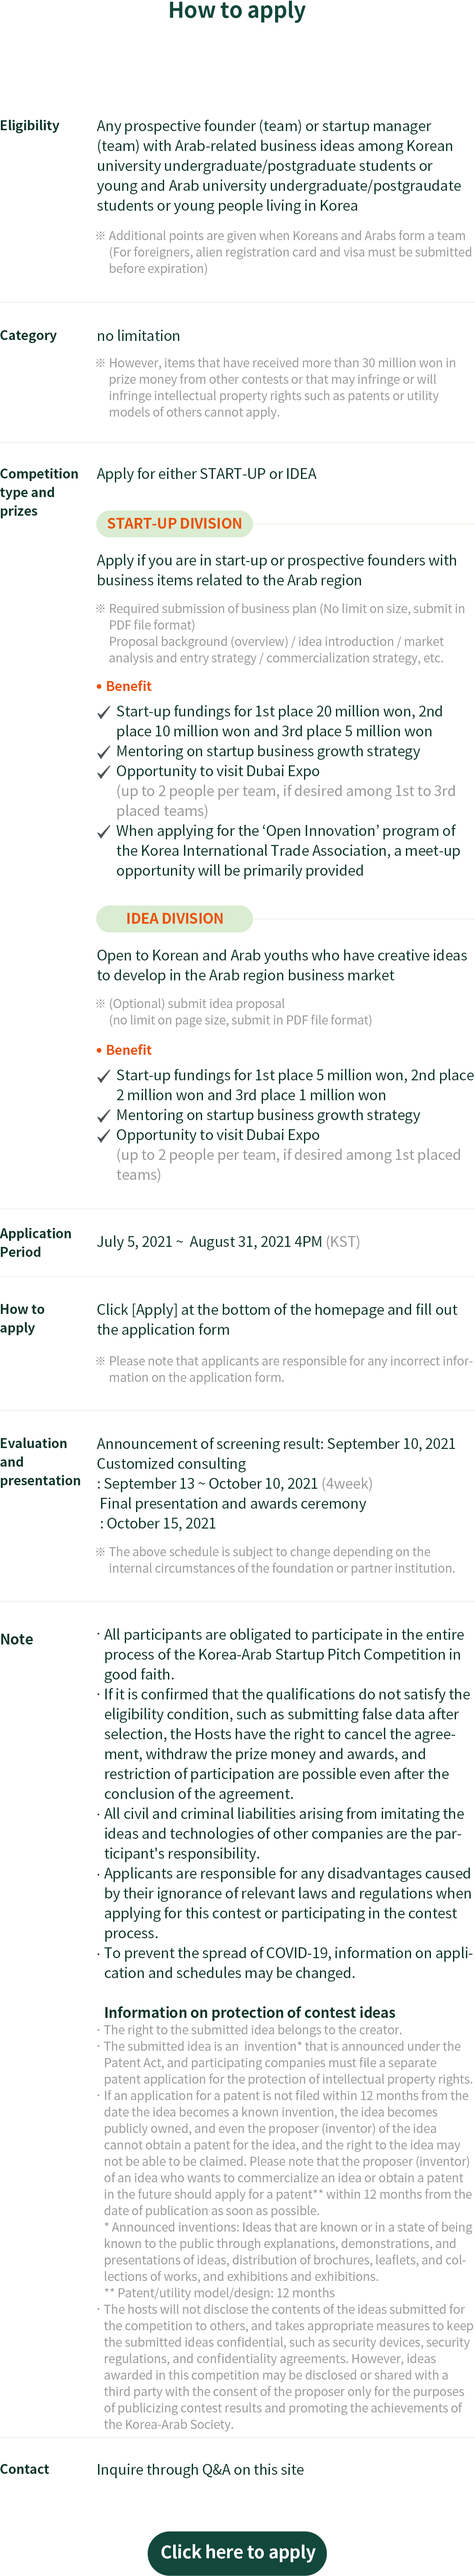
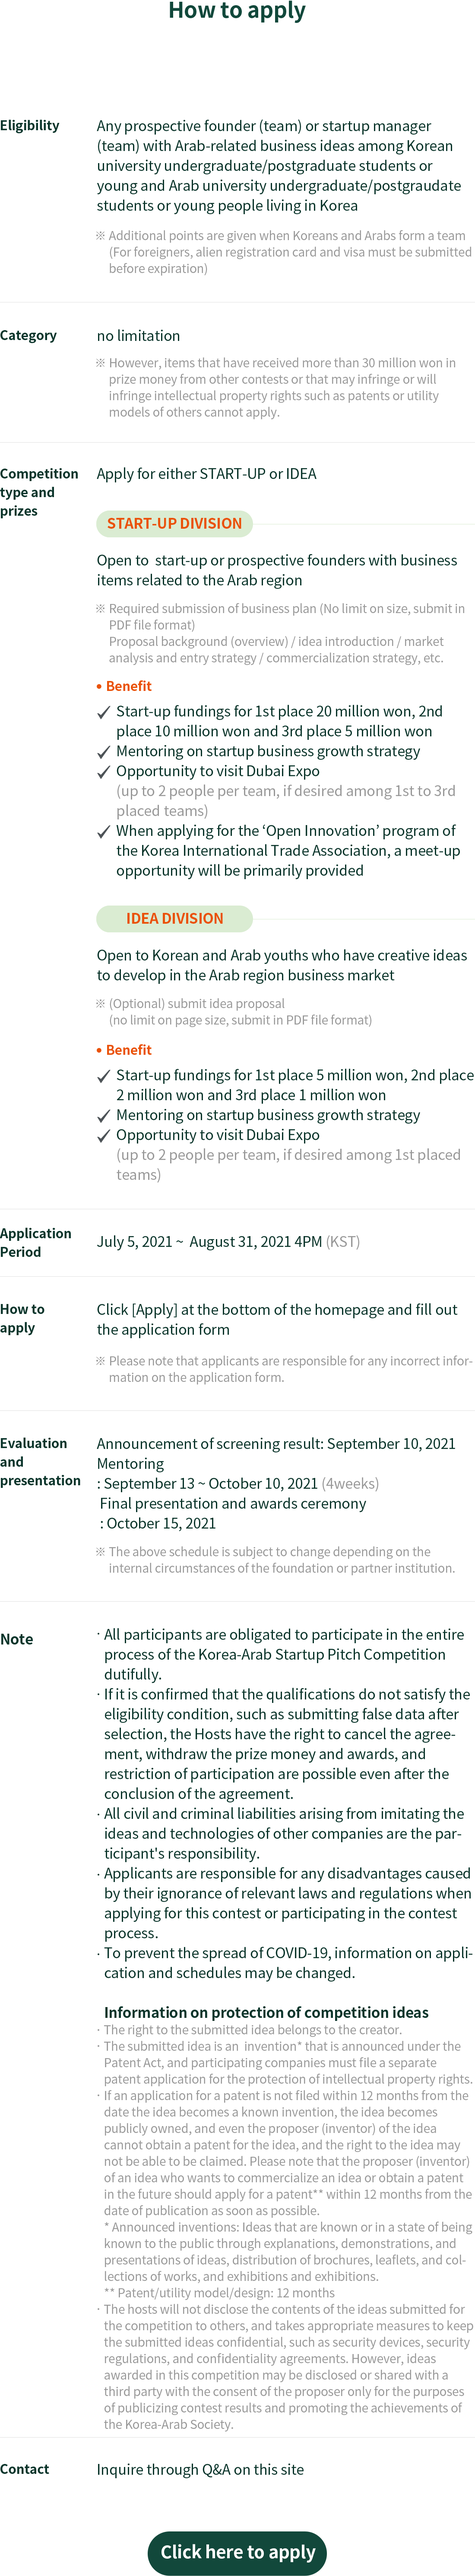
이미지 및 css , html 퍼블 수정

Changed region(s): [[0.5564, 0.2187, 0.5873, 0.2499], [0.2164, 0.5623, 0.2473, 0.5936]]

diff --git a/views/html/index.html b/views/html/index.html
@@ -81,8 +81,8 @@
                         <figure>
                             <img src="../../content/images/eng/iintro-image.png" alt="한-아랍 스타트업 아이디어 공모전 소개 문구 이미지">
                         </figure>
-                        <a href="http://www.korea-arab.org/" target="_blank" title="한국-아랍 소사이어티 홈페이지로 이동하기 (새 창 이동)" class="cmn-btn__homepage"><span class="txt-hidden">한국-아랍 소사이어티 홈페이지 이동 버튼</span></a>
-                        <a href="https://youtu.be/jRheKPQDRwA" target="_blank" title="아랍 관련 비즈니스 세미나 시청하기 (새 창 이동)" class="cmn-btn__download"><span class="txt-hidden">아랍 관련 비즈니스 세미나 시청하기 버튼</span></a>
+                        <a href="http://eng.korea-arab.org/" target="_blank" title="한국-아랍 소사이어티 영문 홈페이지로 이동하기 (새 창 이동)" class="cmn-btn__homepage"><span class="txt-hidden">한국-아랍 소사이어티 홈페이지 이동 버튼</span></a> <!-- 0705 zoe 수정 -->
+                        <!-- <a href="https://youtu.be/jRheKPQDRwA" target="_blank" title="아랍 관련 비즈니스 세미나 시청하기 (새 창 이동)" class="cmn-btn__download"><span class="txt-hidden">아랍 관련 비즈니스 세미나 시청하기 버튼</span></a> 0705 zoe 삭제 -->
                     </div>
                 </div> <!-- //grid -->
             </div> <!-- //intro area -->
@@ -111,7 +111,7 @@
                                         <strong class="faq-list-tit"><span class="idx">Q</span>지원 자격에 나이 제한이 있나요?</strong>
                                     </button>
                                     <div class="faq-list-txt" style="display: block;">
-                                        <p>본 공모전은 청년을 대상으로 하고 있으며, 만 34세까지 지원 가능합니다.</p> <!-- 0702 2차 zoe 수정 -->
+                                        <p>본 공모전은 청년을 대상으로 하고 있으며, 만 34세까지 지원 가능합니다.</p>
                                     </div>
                                 </li>
                                 <li>
@@ -127,15 +127,15 @@
                                         <strong class="faq-list-tit"><span class="idx">Q</span>직장인도 참여 가능할까요?</strong>
                                     </button>
                                     <div class="faq-list-txt">
-                                        <p>직장인도 참여 가능합니다.<br>다만 멘토링, 최종 프레젠테이션, 시상식 등 공모전 프로그램 참여에 차질이 없어야 합니다.</p> <!-- 0702 2차 zoe 수정 -->
+                                        <p>직장인도 참여 가능합니다.<br>다만 컨설팅, 최종 프레젠테이션, 시상식 등 공모전 프로그램 참여에 차질이 없어야 합니다.</p>
                                     </div>
                                 </li>
                                 <li>
                                     <button class="faq-list-tit-box active">
-                                        <strong class="faq-list-tit"><span class="idx">Q</span>팀원 중 외국인이 있는 경우, 참가 조건이 있을까요?</strong><!-- 0702 2차 zoe 수정 -->
+                                        <strong class="faq-list-tit"><span class="idx">Q</span>외국인 팀원의 별도 참가 자격이 있을까요?</strong>
                                     </button>
                                     <div class="faq-list-txt">
-                                        <p>한국에 거주하는 아랍 청년이라면 나이(34세까지), 국적, 성별에 상관없이 누구나 참여 가능합니다.<br>외국인 지원 시, 외국인 등록증 및 만료이전 비자를 필수로 제출해주시기 바랍니다.</p><!-- 0702 2차 zoe 수정 -->
+                                        <p>한국에 거주하는 아랍 청년이라면 나이, 국적, 성별에 상관없이 누구나 참여 가능합니다.<br>외국인 지원 시, 외국인 등록증 및 만료이전 비자를 필수로 제출해주시기 바랍니다.</p>
                                     </div>
                                 </li>
                                 <li>
@@ -148,7 +148,7 @@
                                 </li>
                                 <li>
                                     <button class="faq-list-tit-box active">
-                                        <strong class="faq-list-tit"><span class="idx">Q</span>창업 아이템의 지적재산권은 한국-아랍 소사이어티에 귀속되나요?</strong> <!-- 0702 2차 zoe 수정 -->
+                                        <strong class="faq-list-tit"><span class="idx">Q</span>창업 아이템의 지적재산권은 한국-아랍 소사이어티에 귀속되나요?</strong>
                                     </button>
                                     <div class="faq-list-txt">
                                         <p>공모전에 제출한 창업 아이디어의 지적재산권 등 소유권은 재단이 아닌 참가자에게 귀속됩니다.</p>
@@ -159,7 +159,7 @@
                                         <strong class="faq-list-tit"><span class="idx">Q</span>함께 활동 중인 스타트업의 프로젝트 (타 공모전에서 수상한 적 없는 아이디어)도 지원 가능할까요?</strong>
                                     </button>
                                     <div class="faq-list-txt">
-                                        <p>가능합니다. 본인의 아이디어가 반영되어 있어야 하며, 스타트업 대표가 아닌 경우 (개인이 회사의 아이디어로 지원하는 경우) 지적재산권, 특허 등의 문제 소지가 없는지 반드시 확인 하셔야 합니다.</p> <!-- 0702 2차 zoe 수정 -->
+                                        <p>가능합니다. 본인의 아이디어가 반영되어 있어야 하며, 스타트업 대표가 아닌 경우 (개인이 회사의 아이디어로 지원하는 경우) 지적재산권, 특허 등의 문제 소지가 없는지 반드시 확인 하셔야 합니다.</p>
                                     </div>
                                 </li>
                                 <li>
@@ -167,7 +167,7 @@
                                         <strong class="faq-list-tit"><span class="idx">Q</span>가지고 있는 아이템이 아직 구체화되지 않은 아이디어 단계인데 본 공모전에 지원 할 수 있을까요?</strong>
                                     </button>
                                     <div class="faq-list-txt">
-                                        <p>아이템이 구체화되지 않은 상태라도 1P 브리프 제안서를 작성하는 ‘아이디어 전형’에 지원 가능하며, 서류 합격 시 멘토링 및 프레젠테이션 과정을 통해 아이템을 디벨롭 할 수 있는 기회가 될 수 있습니다.</p><!-- 0702 2차 zoe 수정 -->
+                                        <p>아이템이 구체화되지 않은 상태라도 1P 브리프 제안서를 작성하는 ‘아이디어 전형’에 지원 가능하며, 서류 합격 시 컨설팅 및 프레젠테이션 과정을 통해 아이템을 디벨롭 할 수 있는 기회가 될 수 있습니다.</p>
                                     </div>
                                 </li>
                                 <li>
@@ -247,7 +247,7 @@
                     <div class="lang-cont__eng">
                         <ul class="tab-menu-list flex-box">
                             <li>
-                                <a href="javascript:void(0);" class="tab-menu active" onclick="showTabCont('about');">How to apply</a><!-- 0702 2차 zoe 수정 -->
+                                <a href="javascript:void(0);" class="tab-menu active" onclick="showTabCont('about');">Summary</a>
                             </li>
                             <li>
                                 <a href="javascript:void(0);" class="tab-menu" onclick="showTabCont('faq');">FAQ</a>
@@ -275,31 +275,31 @@
                                         <strong class="faq-list-tit"><span class="idx">Q</span>When applying for a team, how many team members can be formed?</strong>
                                     </button>
                                     <div class="faq-list-txt">
-                                        <p>There is no limit on the number of team members. When filling out the application form, please write the role of each team member in the "role" field. If your team receive an award , please be informed that only up to 2 people per team can be benifited of certain awards.</p> <!-- 0702 2차 zoe 수정 -->
+                                        <p>There is no limit on the number of team members. When filling out the application form, please write the role of each team member in the "role" field. If your team receive an award , please be informed that only up to 2 people per team can be benifited of certain awards.</p>
                                     </div>
                                 </li>
                                 <li>
                                     <button class="faq-list-tit-box active">
-                                        <strong class="faq-list-tit"><span class="idx">Q</span>Can currently working indiviuals apply?</strong> <!-- 0702 2차 zoe 수정 -->
+                                        <strong class="faq-list-tit"><span class="idx">Q</span>Can currently working indiviuals apply?</strong>
                                     </button>
                                     <div class="faq-list-txt">
-                                        <p>Currently employed individuals can also apply. However, there must be no disruption to the participation in the competition program, such as mentoring, final presentation, and awards ceremony.</p> <!-- 0702 2차 zoe 수정 -->
+                                        <p>Currently employed individuals can also apply. However, there must be no disruption to the participation in the competition program, such as mentoring, final presentation, and awards ceremony.</p>
                                     </div>
                                 </li>
                                 <li>
                                     <button class="faq-list-tit-box active">
-                                        <strong class="faq-list-tit"><span class="idx">Q</span>If a team member is a foreigner, what is his/her eligibility?</strong> <!-- 0702 2차 zoe 수정 -->
+                                        <strong class="faq-list-tit"><span class="idx">Q</span>If a team member is a foreigner, what is his/her eligibility?</strong>
                                     </button>
                                     <div class="faq-list-txt">
-                                        <p>Any young Arabs living in Korea can apply regardless of age(up to 34), nationality, or gender.<br>When applying, please submit documents proving the person's legal residency in Korea. (alien registration card and visa must be submitted before expiration)</p> <!-- 0702 2차 zoe 수정 -->
+                                        <p>Any young Arabs living in Korea can apply regardless of age(up to 34), nationality, or gender.<br>When applying, please submit documents proving the person's legal residency in Korea. (alien registration card and visa must be submitted before expiration)</p>
                                     </div>
                                 </li>
                                 <li>
                                     <button class="faq-list-tit-box active">
-                                        <strong class="faq-list-tit"><span class="idx">Q</span>Are there any priorities based on categories or countries?</strong> <!-- 0702 2차 zoe 수정 -->
+                                        <strong class="faq-list-tit"><span class="idx">Q</span>Are there any priorities based on categories or countries?</strong>
                                     </button>
                                     <div class="faq-list-txt">
-                                        <p>There is no priority for countries and categories. If you have a creative idea related to the Arab region, you can apply regardless of country or category.</p> <!-- 0702 2차 zoe 수정 -->
+                                        <p>There is no priority for countries and categories. If you have a creative idea related to the Arab region, you can apply regardless of country or category.</p>
                                     </div>
                                 </li>
                                 <li>
@@ -307,7 +307,7 @@
                                         <strong class="faq-list-tit"><span class="idx">Q</span>Does the intellectual property right of start-up items belong to the Korea-Arab Society?</strong>
                                     </button>
                                     <div class="faq-list-txt">
-                                        <p>Ownership of intellectual property rights, etc. of startup ideas submitted to the competition belong to the participant, not to the Society.</p> <!-- 0702 2차 zoe 수정 -->
+                                        <p>Ownership of intellectual property rights, etc. of startup ideas submitted to the competition belong to the participant, not to the Society.</p>
                                     </div>
                                 </li>
                                 <li>
@@ -315,31 +315,31 @@
                                         <strong class="faq-list-tit"><span class="idx">Q</span>Can I apply for projects of startups I am working with (ideas that have not been awarded in other competitions)?</strong>
                                     </button>
                                     <div class="faq-list-txt">
-                                        <p>Yes, you may apply. Your ideas must be reflected, and if you are not a startup representative (and an individual applying with a company's ideas), you must check whether there are any problems with intellectual property rights or patents.</p> <!-- 0702 2차 zoe 수정 -->
+                                        <p>Yes, you may apply. Your ideas must be reflected, and if you are not a startup representative (and an individual applying with a company's ideas), you must check whether there are any problems with intellectual property rights or patents.</p>
                                     </div>
                                 </li>
                                 <li>
                                     <button class="faq-list-tit-box active">
-                                        <strong class="faq-list-tit"><span class="idx">Q</span>If the idea I have is at a stage that has not been fully materialized yet, can I apply for this competition?</strong> <!-- 0702 2차 zoe 수정 -->
+                                        <strong class="faq-list-tit"><span class="idx">Q</span>If the idea I have is at a stage that has not been fully materialized yet, can I apply for this competition?</strong>
                                     </button>
                                     <div class="faq-list-txt">
-                                        <p>Even if the idea has not been materialized, you can apply for the ‘idea division’ by submitting a brief one-page proposal.<br>Upon passing the screening, there may be an opportunity to develop the idea through mentoring and presentation processes.</p> <!-- 0702 2차 zoe 수정 -->
+                                        <p>Even if the idea has not been materialized, you can apply for the ‘idea division’ by submitting a brief one-page proposal.<br>Upon passing the screening, there may be an opportunity to develop the idea through mentoring and presentation processes.</p>
                                     </div>
                                 </li>
                                 <li>
                                     <button class="faq-list-tit-box active">
-                                        <strong class="faq-list-tit"><span class="idx">Q</span>Who will do the on-line mentoring?</strong> <!-- 0702 2차 zoe 수정 -->
+                                        <strong class="faq-list-tit"><span class="idx">Q</span>Who will do the on-line mentoring?</strong>
                                     </button>
                                     <div class="faq-list-txt">
-                                        <p>Experts from relevant organizations specializing in startup support and Arab market will participate. We will inform you in more details later in the process.</p> <!-- 0702 2차 zoe 수정 -->
+                                        <p>Experts from relevant organizations specializing in startup support and Arab market will participate. We will inform you in more details later in the process.</p>
                                     </div>
                                 </li>
                                 <li>
                                     <button class="faq-list-tit-box active">
-                                        <strong class="faq-list-tit"><span class="idx">Q</span>What is the exact benefit of opportunity to visit the Dubai Expo?</strong> <!-- 0702 2차 zoe 수정 -->
+                                        <strong class="faq-list-tit"><span class="idx">Q</span>What is the exact benefit of opportunity to visit the Dubai Expo?</strong>
                                     </button>
                                     <div class="faq-list-txt">
-                                        <p>This is a benefit to be given to the 1st to 3rd place winning teams in the Startup division, and the 1st place team in the idea division. If the selected teams(up to 2 people per team) wish to visit Dubai, the benefit will be provided after thorough preparations for the visit have been made and the relevant procedures explained at a later time.<br>(*Dubai Expo 2021 to be held from October 2021 to March 2022)</p> <!-- 0702 2차 zoe 수정 -->
+                                        <p>This is a benefit to be given to the 1st to 3rd place winning teams in the Startup division, and the 1st place team in the idea division. If the selected teams(up to 2 people per team) wish to visit Dubai, the benefit will be provided after thorough preparations for the visit have been made and the relevant procedures explained at a later time.<br>(*Dubai Expo 2021 to be held from October 2021 to March 2022)</p>
                                     </div>
                                 </li> 
                             </ul>
@@ -350,7 +350,7 @@
                                     <div class="form-wrap">
                                         <div class="form-field">
                                             <div class="form-row pb30 txt-cnt">
-                                                <p class="form-tip pl0">Please leave an inquiry regarding the competition.<br>It will be replied via email.</p> <!-- 0702 2차 zoe 수정 -->
+                                                <p class="form-tip pl0">Please leave an inquiry regarding the competition.<br>It will be replied via email.</p>
                                             </div>
                                             <div class="form-row">
                                                 <div class="form-el-wrap__col flex-box">
@@ -387,7 +387,7 @@
                                                         <label class="form-chk-label" for="qnaTermCheck">I agree to the collection and use of personal information.</label>
                                                     </div>
                                                     <div class="form-term-box mt30">
-                                                        <p>Operation Secretariat for the Korea-Arab Startup Idea Pitch Competition (hereinafter referred to as the "Operation Secretariat") collects the following personal information from users when using the service.<br><br>2. Period of retention and use of personal information<br>In principle, the member's personal information will be destroyed without delay after 3 months after answering the inquiry.<br><br>※ You may refuse to consent to the collection and use of essential items, but since this is information that is essential to providing services, you cannot use the Q&A if you refuse to consent.</p> <!-- 0702 2차 zoe 수정 -->
+                                                        <p>Operation Secretariat for the Korea-Arab Startup Idea Pitch Competition (hereinafter referred to as the "Operation Secretariat") collects the following personal information from users when using the service.<br><br>2. Period of retention and use of personal information<br>In principle, the member's personal information will be destroyed without delay after 3 months after answering the inquiry.<br><br>※ You may refuse to consent to the collection and use of essential items, but since this is information that is essential to providing services, you cannot use the Q&A if you refuse to consent.</p>
                                                     </div>
                                                 </div>
                                             </div>  

diff --git a/views/html/privacy.html b/views/html/privacy.html
@@ -62,7 +62,7 @@
                     <img src="../../content/images/kor/sub-visual-image.png" alt="한-아랍 스타트업 아이디어 공모전 | 공모기간 : 2021.7.5(Mon) ~ 2021.8.31(Tue) 16:00" class="lang-cont__kor">
                     <img src="../../content/images/eng/sub-visual-image.png" alt="Korea-Arab
                     Startup Pitch Competition : Jul 5(Mon), 2021 ~ Aug 31(Tue), 2021" class="lang-cont__eng">
-                </figure> <!-- 0702 zoe 수정 -->
+                </figure>
                 <a href="javascript:void(0);" class="cmn-btn__lang-kor" onclick="showLangCont('kor');"><span class="txt-hidden">국문 페이지 보기 버튼</span></a>
                 <a href="javascript:void(0);" class="cmn-btn__lang-eng" onclick="showLangCont('eng');"><span class="txt-hidden">영문 페이지 보기 버튼</span></a>
             </div>
@@ -145,6 +145,86 @@
                         </dd>
                     </dl>
                 </div>
+                <div class="lang-cont__eng">
+                    <div class="policy-wrap">
+                        <p class="policy-txt fs20">The Korea-Arab Startup Idea Pitch Competition (hereinafter referred to as the 'Operation Secretariat') values users' personal information, and will endeavor to comply with the 「Act on Promotion of Information and Communications Network Utilization and Information Protection, Etc.」 and 「Personal Information Protection Act」.<br><br>Through the personal information processing policy, the operation secretariat informs you of the purpose and method of using the personal information provided by the user and what measures are being taken to protect personal information.</p>
+                    </div>
+                    <dl class="policy-wrap">
+                        <dt class="policy-hd-tit fs30">1. Purpose of collection and use of personal information / period / right to refuse collection</dt>
+                        <dd>
+                            <strong class="policy-sub-tit fs22">1) Collection method</strong>
+                            <p class="policy-txt fs20">Through application documents for Korea-Arab Startup Idea Pitch Competition</p>
+                            <strong class="policy-sub-tit fs22">2) Purpose for use of collected personal information</strong>
+                            <p class="policy-txt fs20">Application review, business operation and management</p>
+                            <strong class="policy-sub-tit fs22">3) Collected items</strong>
+                            <p class="policy-txt fs20">① required<br>· Individual applicants - name, date of birth, gender, nationality, contact information, address, affiliation, and position<br>· Team Applicants - Team member information (name, affiliation, contact information)<br><br>② optional : related award history</p>
+                            <strong class="policy-sub-tit fs22">4) Retention and use period</strong>
+                            <p class="policy-txt fs20">The above personal information will be destroyed immediately after the purpose of collection and use is completed. However, if it is necessary to retain personal information in accordance with the provisions of related laws, the operation secretariat may retain the personal information as follows in accordance with the provisions of the relevant laws and regulations.<br><br>- Records related to contract or subscription withdrawal: 5 years<br>- Records on payment and supply of goods: 5 years<br>- Records on consumer complaints or dispute resolution: 3 years<br>- Records on collection/processing and use of credit information: 3 years<br>- Records on display/advertisement: 6 months<br>- User's Internet log records / User's access location tracking data: 3 months<br>- Other communication confirmation data: 12 months</p>
+                            <strong class="policy-sub-tit fs22">5) Right to refuse collection</strong>
+                            <p class="policy-txt fs20">You may not agree to the collection and use of personal information. However, if the collection is rejected, the application and selection of applications may be restricted.</p>
+                        </dd>
+                    </dl>
+                    <dl class="policy-wrap">
+                        <dt class="policy-hd-tit fs30">2. The right to refuse to collect the purpose and period of use of the creative work</dt>
+                        <dd>
+                            <strong class="policy-sub-tit fs22">1) Collection method</strong>
+                            <p class="policy-txt fs20">Through application documents for Korea-Arab Startup Idea Pitch Competition</p>
+                            <strong class="policy-sub-tit fs22">2) Utilization items</strong>
+                            <p class="policy-txt fs20">Press release, SNS operation and promotion, advertising and publicity (campaign) material and marketing, etc.</p>
+                            <strong class="policy-sub-tit fs22">3) Retention and use period</strong>
+                            <p class="policy-txt fs20">The above project creations are continuously retained and used to prevent applying multiple times or to use marketing, etc., unless there are exceptional reasons.</p>
+                            <strong class="policy-sub-tit fs22">4) Right to refuse collection</strong>
+                            <p class="policy-txt fs20">You may not agree to use of the creative work. However, if the collection is rejected, the application and selection of applications may be restricted.</p>
+                        </dd>
+                    </dl>
+                    <dl class="policy-wrap">
+                        <dt class="policy-hd-tit fs30">3. Handling and consignment of personal information processing</dt>
+                        <dd>
+                            <strong class="policy-sub-tit fs22">1) Consignment</strong>
+                            <p class="policy-txt fs20">- Consignee: Website consigned service Operation Secretariat<br>- Consigned tasks: website support reception, website event operation and inquiry response, website content creation</p>
+                        </dd>
+                    </dl>
+                    <dl class="policy-wrap">
+                        <dt class="policy-hd-tit fs30">4. Destruction Procedures and Methods</dt>
+                        <dd>
+                            <p class="policy-txt fs20">After the usage purpose for personal information collected by ‘This Operation Secretariat’ is achieved, the pertaining information shall be immediately destroyed pursuant to the retention and usage periods. The destruction procedures and methods are as follows.</p>
+                            <strong class="policy-sub-tit fs22">1) Destruction procedure</strong>
+                            <p class="policy-txt fs20">Your personal information will be destroyed upon the achievement of the purpose of providing or collecting such information pursuant to the information protection clause based on internal policies and other relevant laws.</p>
+                            <strong class="policy-sub-tit fs22">2) Destruction method</strong>
+                            <p class="policy-txt fs20">Personal information existing in printed form shall be destroyed by paper shredding, incineration, or dissolution via a chemical process, and personal information saved as electronic files shall be deleted using a technical method disallowing any reproduction of the record.</p>
+                        </dd>
+                    </dl>
+                    <dl class="policy-wrap">
+                        <dt class="policy-hd-tit fs30">5. Provision of personal information to third parties</dt>
+                        <dd>
+                            <p class="policy-txt fs20">In principle, the operation secretariat does not provide users' personal information to external parties. However, exceptions are made in the following cases.<br><br>1) In accordance with the provisions of laws and regulations or when there is a request from the investigation agency in accordance with the procedures and methods stipulated in the laws for investigation purposes<br>2) In case it is necessary for the settlement of the fee according to the provision of paid services<br>3) When providing in a form that cannot identify a specific individual for statistical preparation, academic research, or market research<br>4) When users agree in advance<br><br>The companies listed above are subject to change in the future. If the Operation Secretariat changes or provides or shares users' personal information other than those listed, a procedure to obtain user consent will be provided.</p>
+                        </dd>
+                    </dl>
+                    <dl class="policy-wrap">
+                        <dt class="policy-hd-tit fs30">6. User’s right</dt>
+                        <dd>
+                            <p class="policy-txt fs20">The users or their legal representatives, as main agents of the information, may exercise the following rights regarding the collection, use and sharing of personal information by the Operation Secretariat.<br><br>1) exercise right to access to personal information<br>2) make corrections or deletion<br>3) make temporary suspension of treatment of personal information<br>4) request the withdrawal of their consent provided before<br><br>If, in order to exercise the above rights, you, as an user, use the menu of 'amendment of member information of webpage or contact the Operation Secretariat by sending a document or e-mails, or using telephone to the Operation Secretariat(or person in charge of management of personal information or a deputy), the Operation Secretariat will take measures without delay: Provided that the Operation Secretariat may reject the request of you only to the extent that there exists either proper cause as prescribed in the laws or equivalent cause.</p>
+                        </dd>
+                    </dl>
+                    <dl class="policy-wrap">
+                        <dt class="policy-hd-tit fs30">7. Installation and operation of an automated collection of personal information device and rejection related content</dt>
+                        <dd>
+                            <p class="policy-txt fs20">‘This Operation Secretariat’ does not use cookies that frequently save and find your personal information.An abnormal cookie may be created, however, if you log-in to this website and then open a different family website on a new page.  Cookies are very small text files to be sent to the browser of the users by the server used for operation of the websites of the Operation Secretariat and will be stored in hard-disks of the users' computer.<br><br>1) Reasons for using cookies and additional information : Prevention of excessive application, normal connection route verification and employment support services.<br><br>The users have an option for cookie installation. So, they may either allow all cookies by setting option in web browser, make each cookie checked whenever it is saved, or refuses all cookies to be saved: Provided that, if the user rejects the installation of cookies, it may be difficult for that user to use the parts of services provided by the Operation Secretariat.</p>
+                        </dd>
+                    </dl>
+                    <dl class="policy-wrap">
+                        <dt class="policy-hd-tit fs30">8. Personal information accountable personnel and manager</dt>
+                        <dd>
+                            <p class="policy-txt fs20">The Operation Secretariat makes every effort to provide prompt and good faith responses to inquiries on personal information protection. If you wish to contact the Service’s personal information manager, the Operation Secretariat will provide a prompt response in good faith to inquiries related to personal information when you contact the contact number or email indicated below.<br><br>① Personal information protection accountable personnel : Tae-eun Kim<br>② Personal information protection manager : Tae-eun Kim<br>③ Manager contact number :  02-551-7130<br>④ Manager email address : info@korea-arab.org</p>
+                        </dd>
+                    </dl>
+                    <dl class="policy-wrap">
+                        <dt class="policy-hd-tit fs30">9. Opinion Collection and Complaints Processing</dt>
+                        <dd>
+                            <p class="policy-txt fs20">When consulting on other personal information matters is required, inquiries may be made to the Korea Internet & Security Agency, the Personal Information Infringement Reporting Center, or the Korean National Police Agency Cyber Bureau.<br><br>① Personal Information Dispute Mediation Committee (https://www.kopico.go.kr)<br>② OPA Privacy (http://www.eprivacy.or.kr/index.do)<br>③ Cyber Investigation Division, Supreme Prosecutors' Office (https://www.spo.go.kr)<br>④ Korean National Police Agency Cyber Bureau (https://ecrm.cyber.go.kr )</p>
+                        </dd>
+                    </dl>
+                </div> <!-- 0705 zoe 추가 -->
             </div>
         </section>
         <!-- //sub END -->

diff --git a/content/styles/content.css b/content/styles/content.css
@@ -56,7 +56,7 @@ main
 ============================================================*/
 /* visual
 ============================================================*/
-.vsl-area { /* 0702 zoe 수정 */
+.vsl-area {
     background: url("../images/common/visual-background.png") no-repeat center bottom;
     background-size: cover;
 }
@@ -69,39 +69,50 @@ main
 .intro-area {
     background-color: #12483b;
 }
-.intro-area [class^="cmn-btn__"] { /* 0702 zoe 수정 */
+/* .intro-area [class^="cmn-btn__"] {
     width: 34.1%;
 }
-.cmn-btn__homepage {
+ .cmn-btn__homepage {
     left: 15.18%;
 }
 .cmn-btn__download {
     left: 50.36%;
-}
+} 0705 zoe 삭제 */
 
-.intro-area .lang-cont__kor [class^="cmn-btn__"] { /* 0702 zoe 추가 */
+/* 0705 zoe 수정 및 추가 시작 */
+.intro-area .lang-cont__kor [class^="cmn-btn__"] {
+    width: 34.1%;
     top: 50.83%;
     height: 21%;
 }
-.intro-area .lang-cont__eng [class^="cmn-btn__"] { /* 0702 zoe 추가 */
+.intro-area .lang-cont__kor .cmn-btn__homepage {
+    left: 15.18%;
+}
+.intro-area .lang-cont__kor .cmn-btn__download {
+    left: 50.36%;
+}
+.intro-area .lang-cont__eng [class^="cmn-btn__"] {
     top: 60.31%;
+    left: 31.5%;
+    width: 37%;
     height: 17.64%;
 }
+/* 0705 zoe 수정 및 추가 끝 */
 
 /* content
 ============================================================*/
 .cont-area {
     padding: 7rem 0 6.5rem;
 }
-.cmn-btn__apply { /* 0702 zoe 수정 */
+.cmn-btn__apply {
     bottom: 0;
     left: 31.1%;
     width: 37.73%;
 }
-.lang-cont__kor .cmn-btn__apply { /* 0702 zoe 추가 */
+.lang-cont__kor .cmn-btn__apply {
     height: 2.4%;
 }
-.lang-cont__eng .cmn-btn__apply { /* 0702 zoe 추가 */
+.lang-cont__eng .cmn-btn__apply {
     height: 1.73%;
 }
 [class^="tab-cont__"] {
